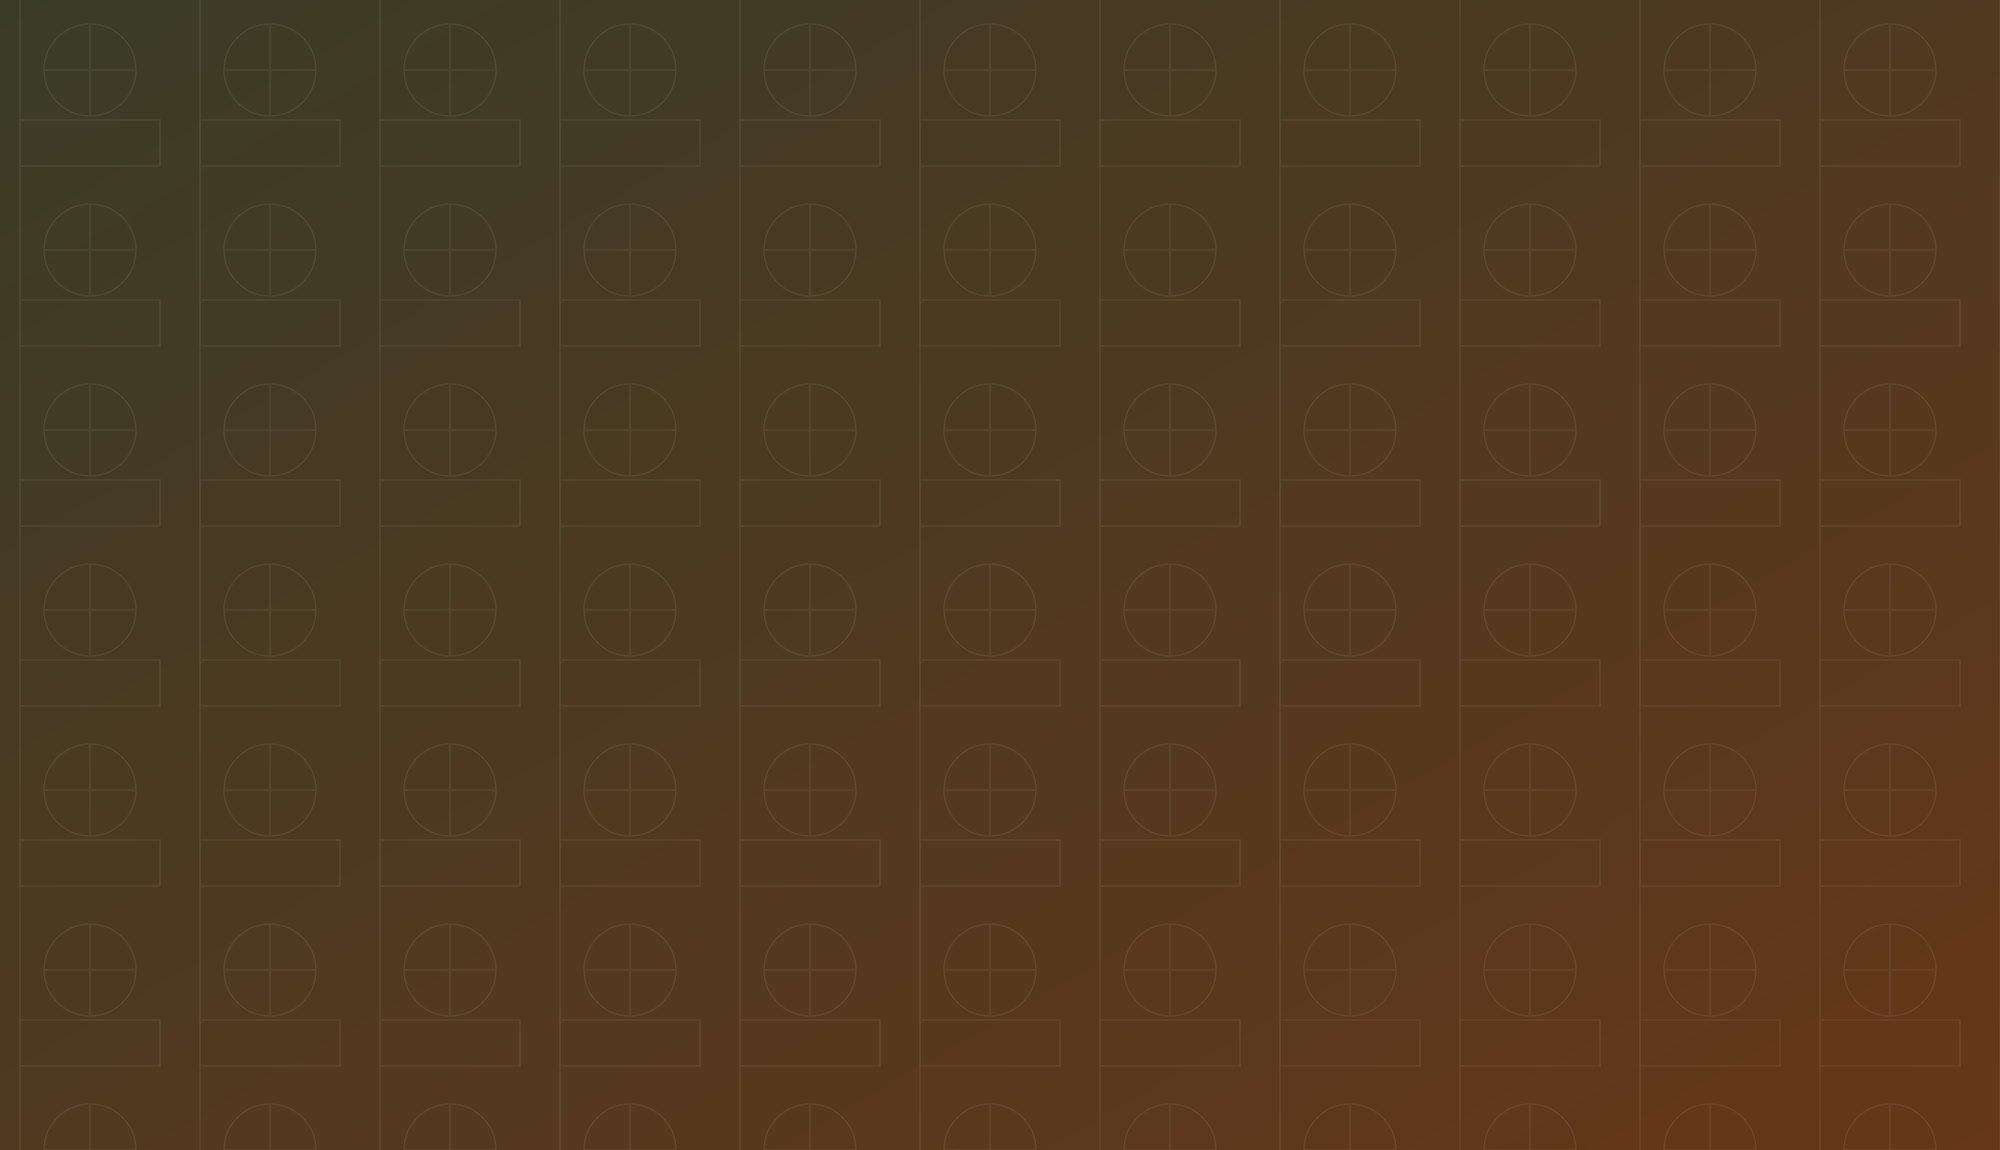
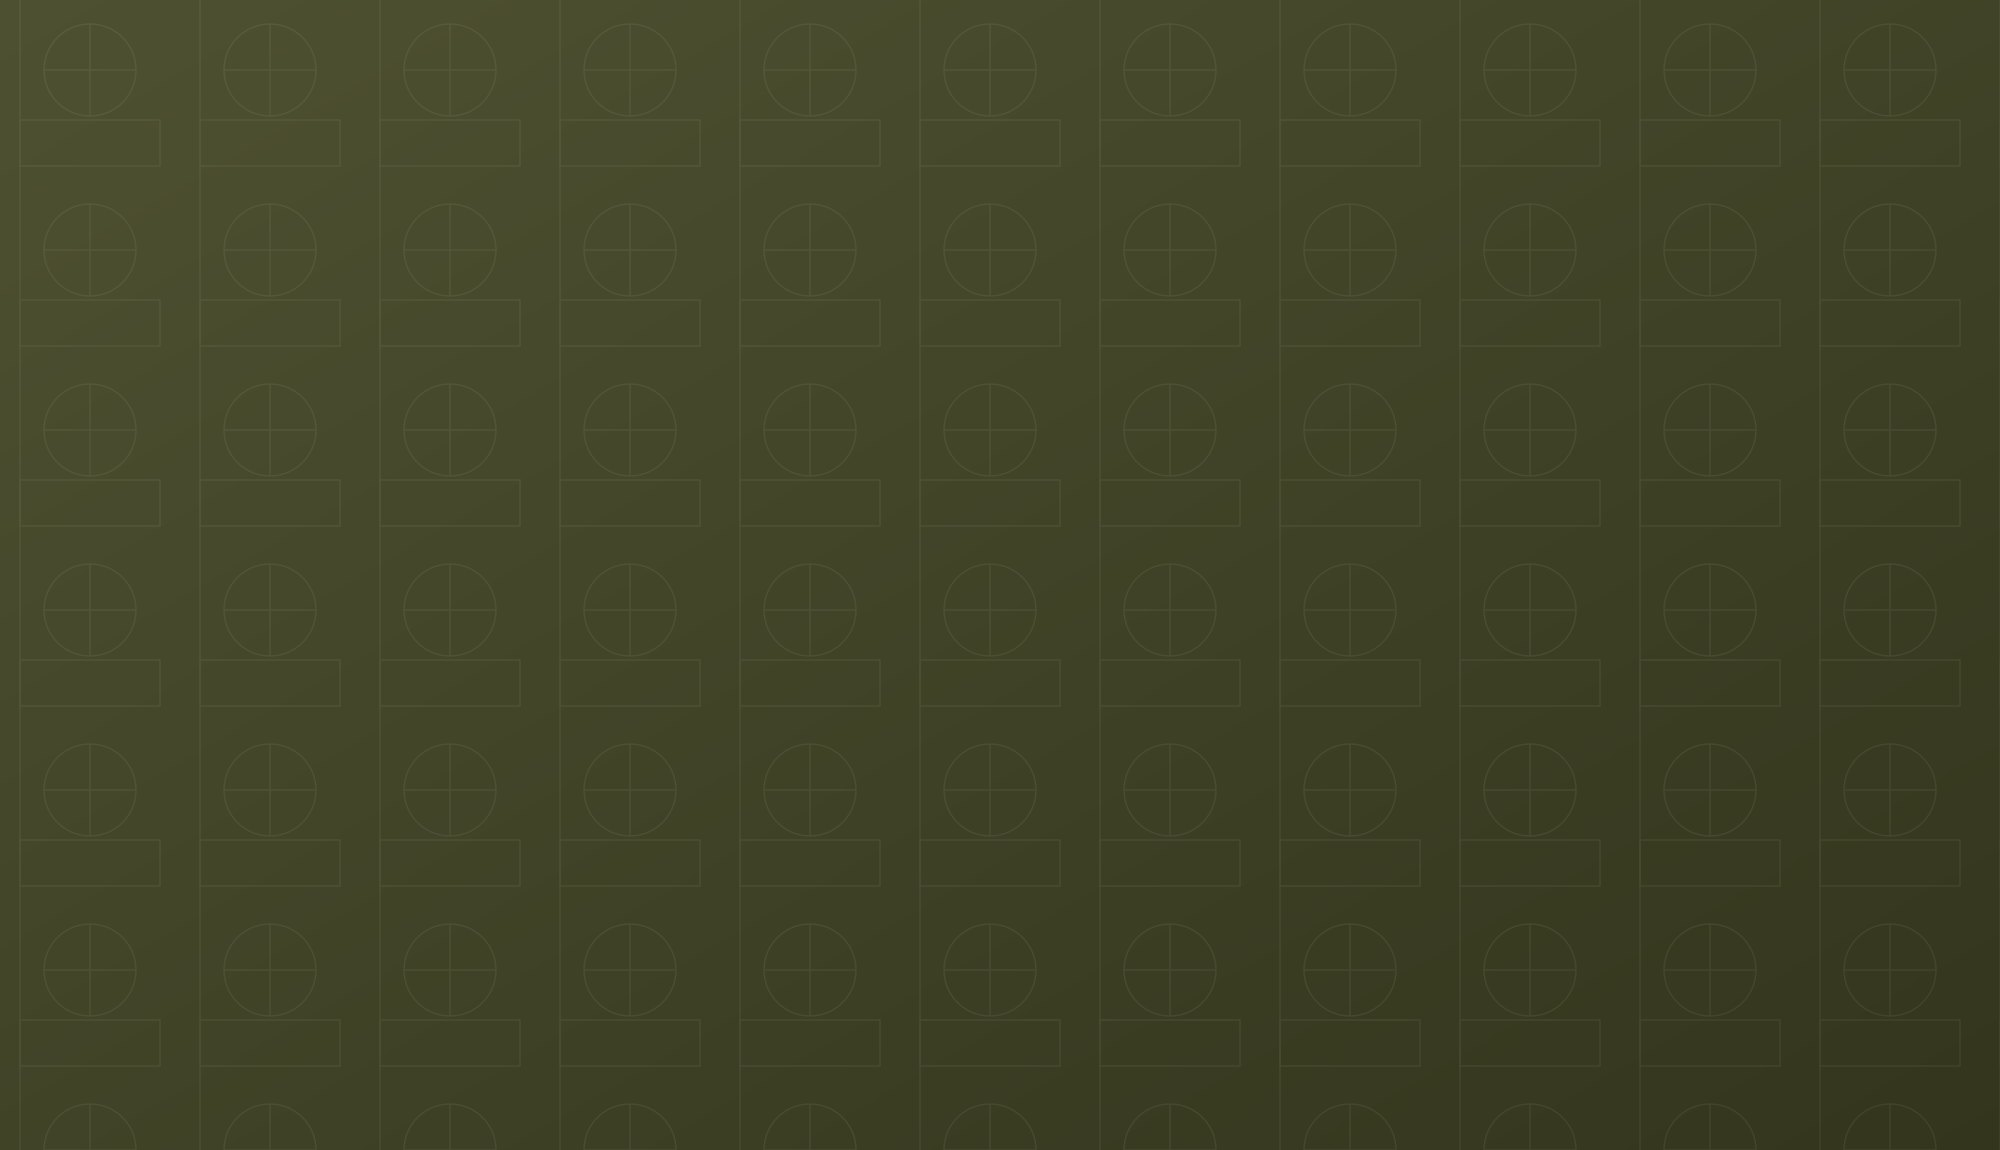
Títulos das seções + hero em verde oliva
- "Uma marca construída para deixar legado"
- "Vamos juntos realizar o seu sonho?"
- Fundo do hero trocado de marrom para verde (mescla com o bege)

Changed region(s): [[0.248, 0.2435, 1.0, 1.0], [0.434, 0.7304, 0.465, 0.7609]]

diff --git a/index.html b/index.html
@@ -140,7 +140,7 @@
   <div class="container">
     <div class="section-head reveal">
       <p class="eyebrow eyebrow--light">Por que o BE Arch</p>
-      <h2>Uma marca construída para durar.</h2>
+      <h2>Uma marca construída para deixar legado.</h2>
     </div>
     <div class="dif-grid">
       <div class="dif reveal">
@@ -247,7 +247,7 @@
   <div class="container contato-grid">
     <div class="contato-text reveal">
       <p class="eyebrow eyebrow--light">Vamos conversar</p>
-      <h2>Vamos tirar o seu projeto do papel?</h2>
+      <h2>Vamos juntos realizar o seu sonho?</h2>
       <p>Conte pra gente sobre o seu espaço e a forma como você deseja viver. O primeiro passo é uma conversa.</p>
       <a href="https://wa.me/5547999520077?text=Ol%C3%A1!%20Gostaria%20de%20solicitar%20um%20or%C3%A7amento." class="btn" target="_blank" rel="noopener">Falar no WhatsApp</a>
     </div>

diff --git a/styles.css b/styles.css
@@ -113,7 +113,7 @@ h3{font-size:1.35rem}
 .hero{position:relative;min-height:100svh;display:flex;align-items:center;color:#fff;overflow:hidden}
 .hero-bg{position:absolute;inset:0;background-size:cover;background-position:center;transform:scale(1.05);animation:heroZoom 14s ease-out forwards}
 @keyframes heroZoom{to{transform:scale(1)}}
-.hero-overlay{position:absolute;inset:0;background:linear-gradient(180deg,rgba(44,38,32,.55) 0%,rgba(55,56,32,.35) 40%,rgba(79,42,18,.6) 100%)}
+.hero-overlay{position:absolute;inset:0;background:linear-gradient(180deg,rgba(40,42,26,.5) 0%,rgba(55,56,32,.32) 45%,rgba(44,47,28,.66) 100%)}
 .hero-content{position:relative;z-index:2;max-width:820px;padding-top:80px;padding-bottom:80px}
 .hero-title{font-size:clamp(3rem,9vw,6.4rem);color:#fff;line-height:1.02;margin-bottom:.4em}
 .hero-title span{color:var(--taupe)}
